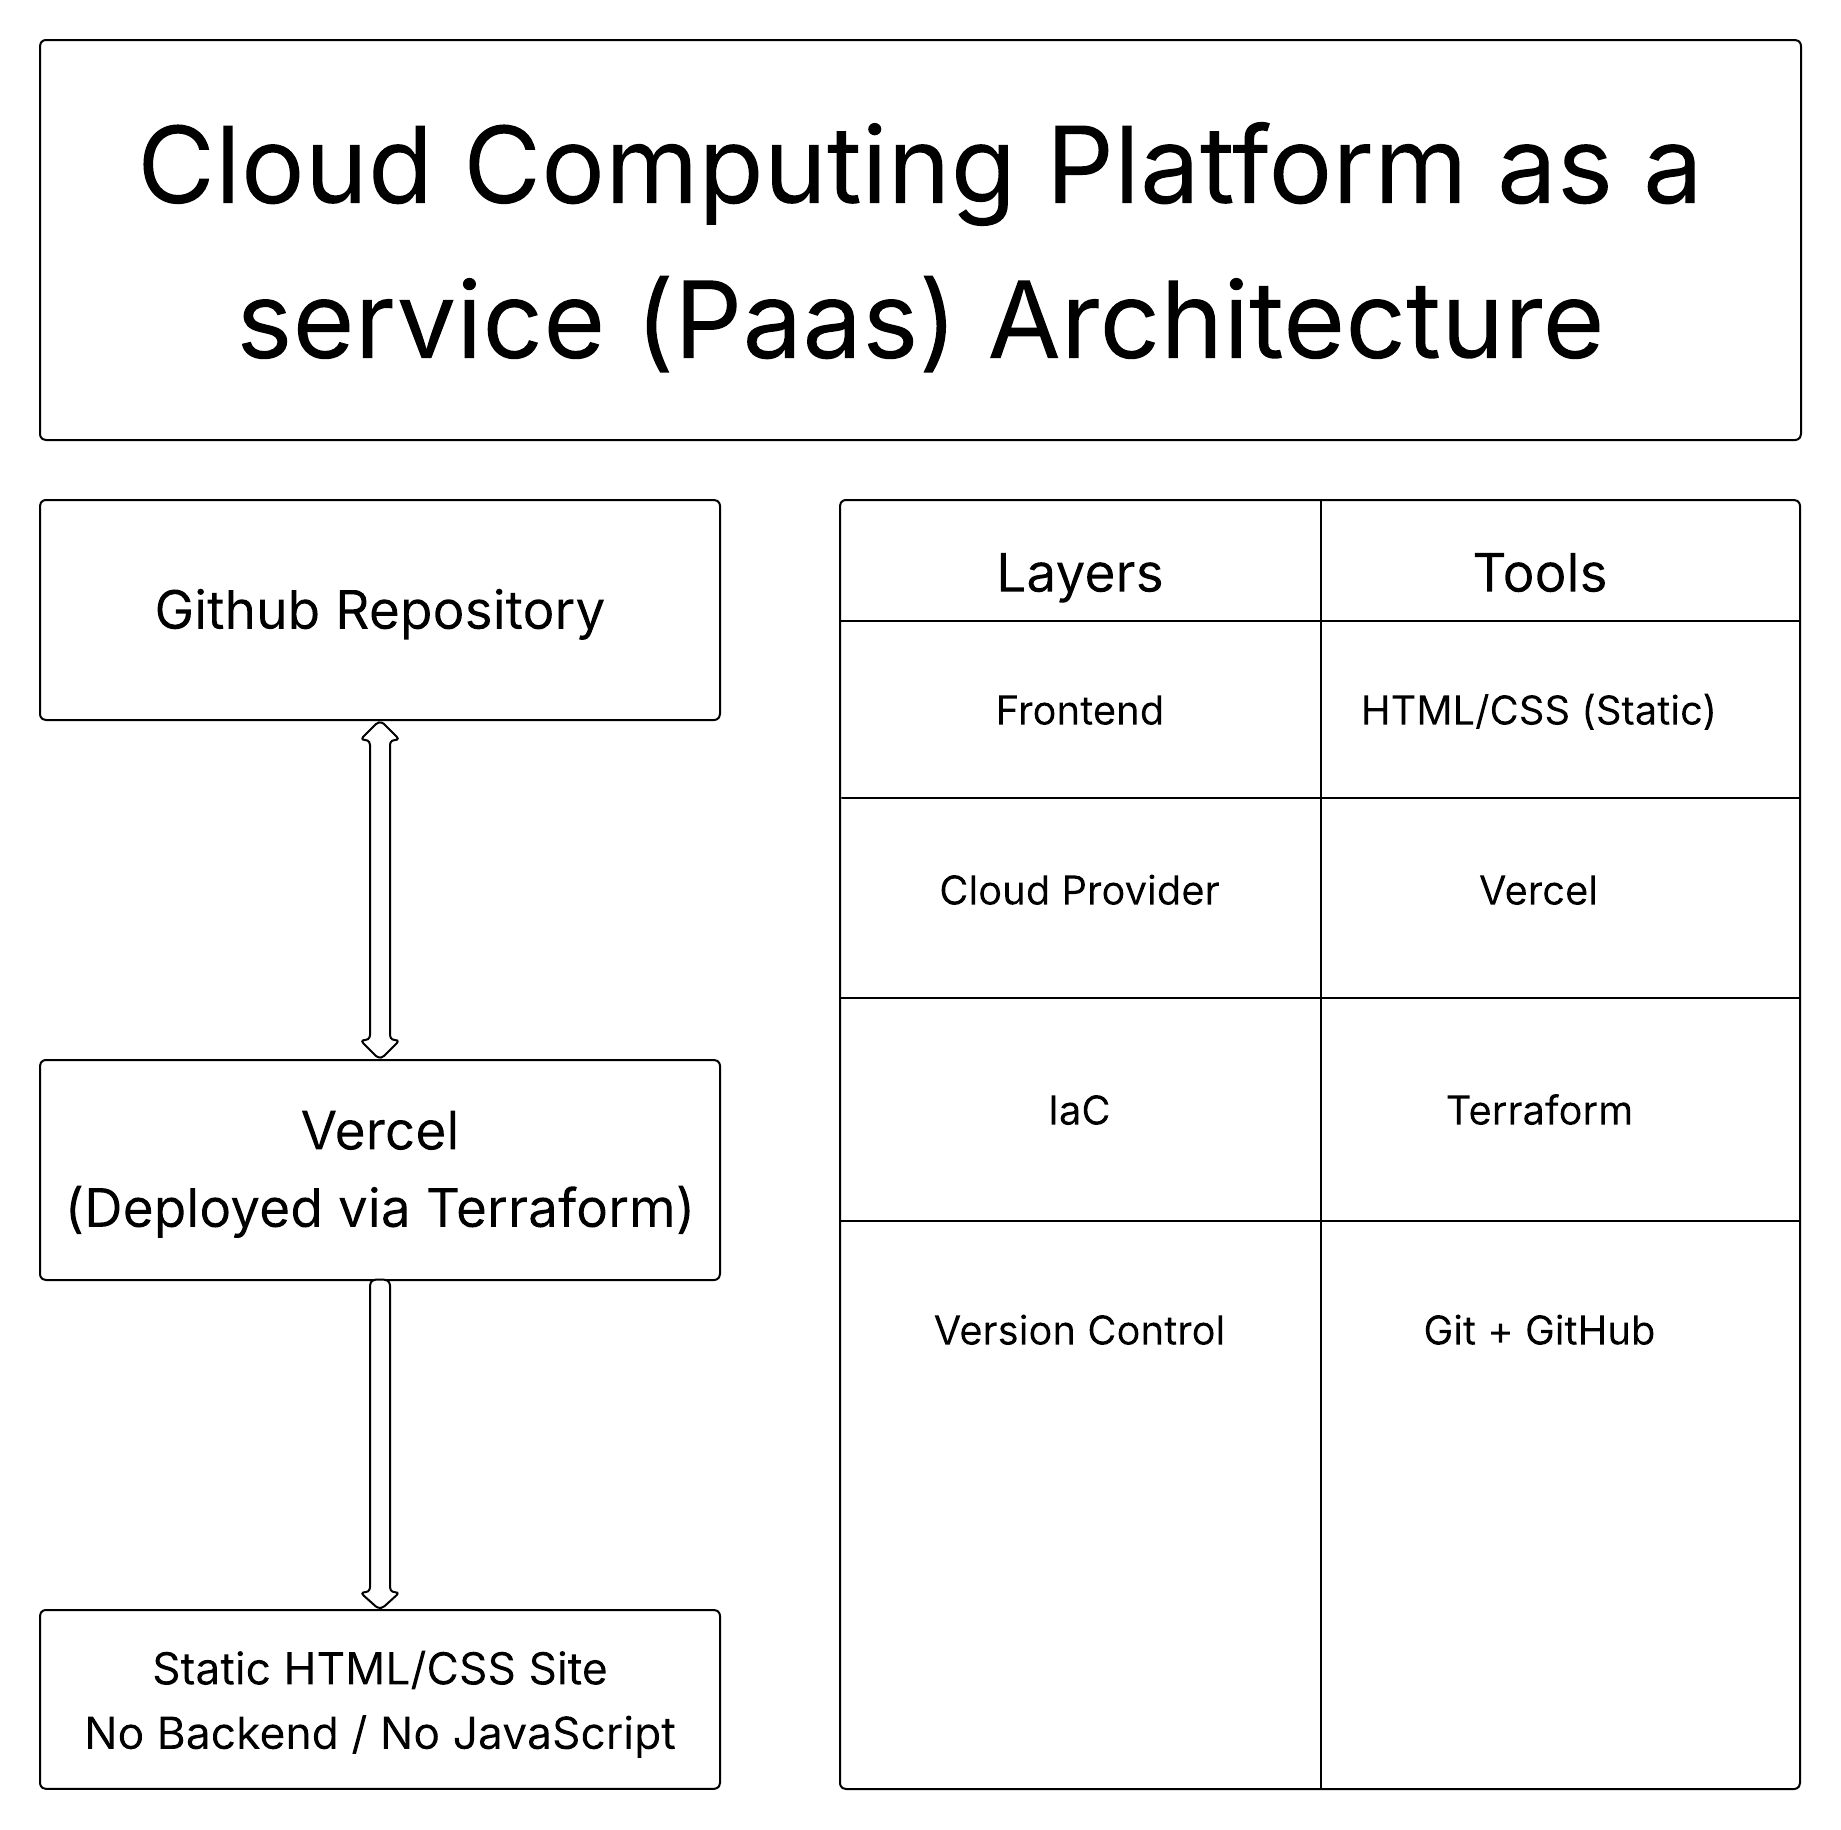
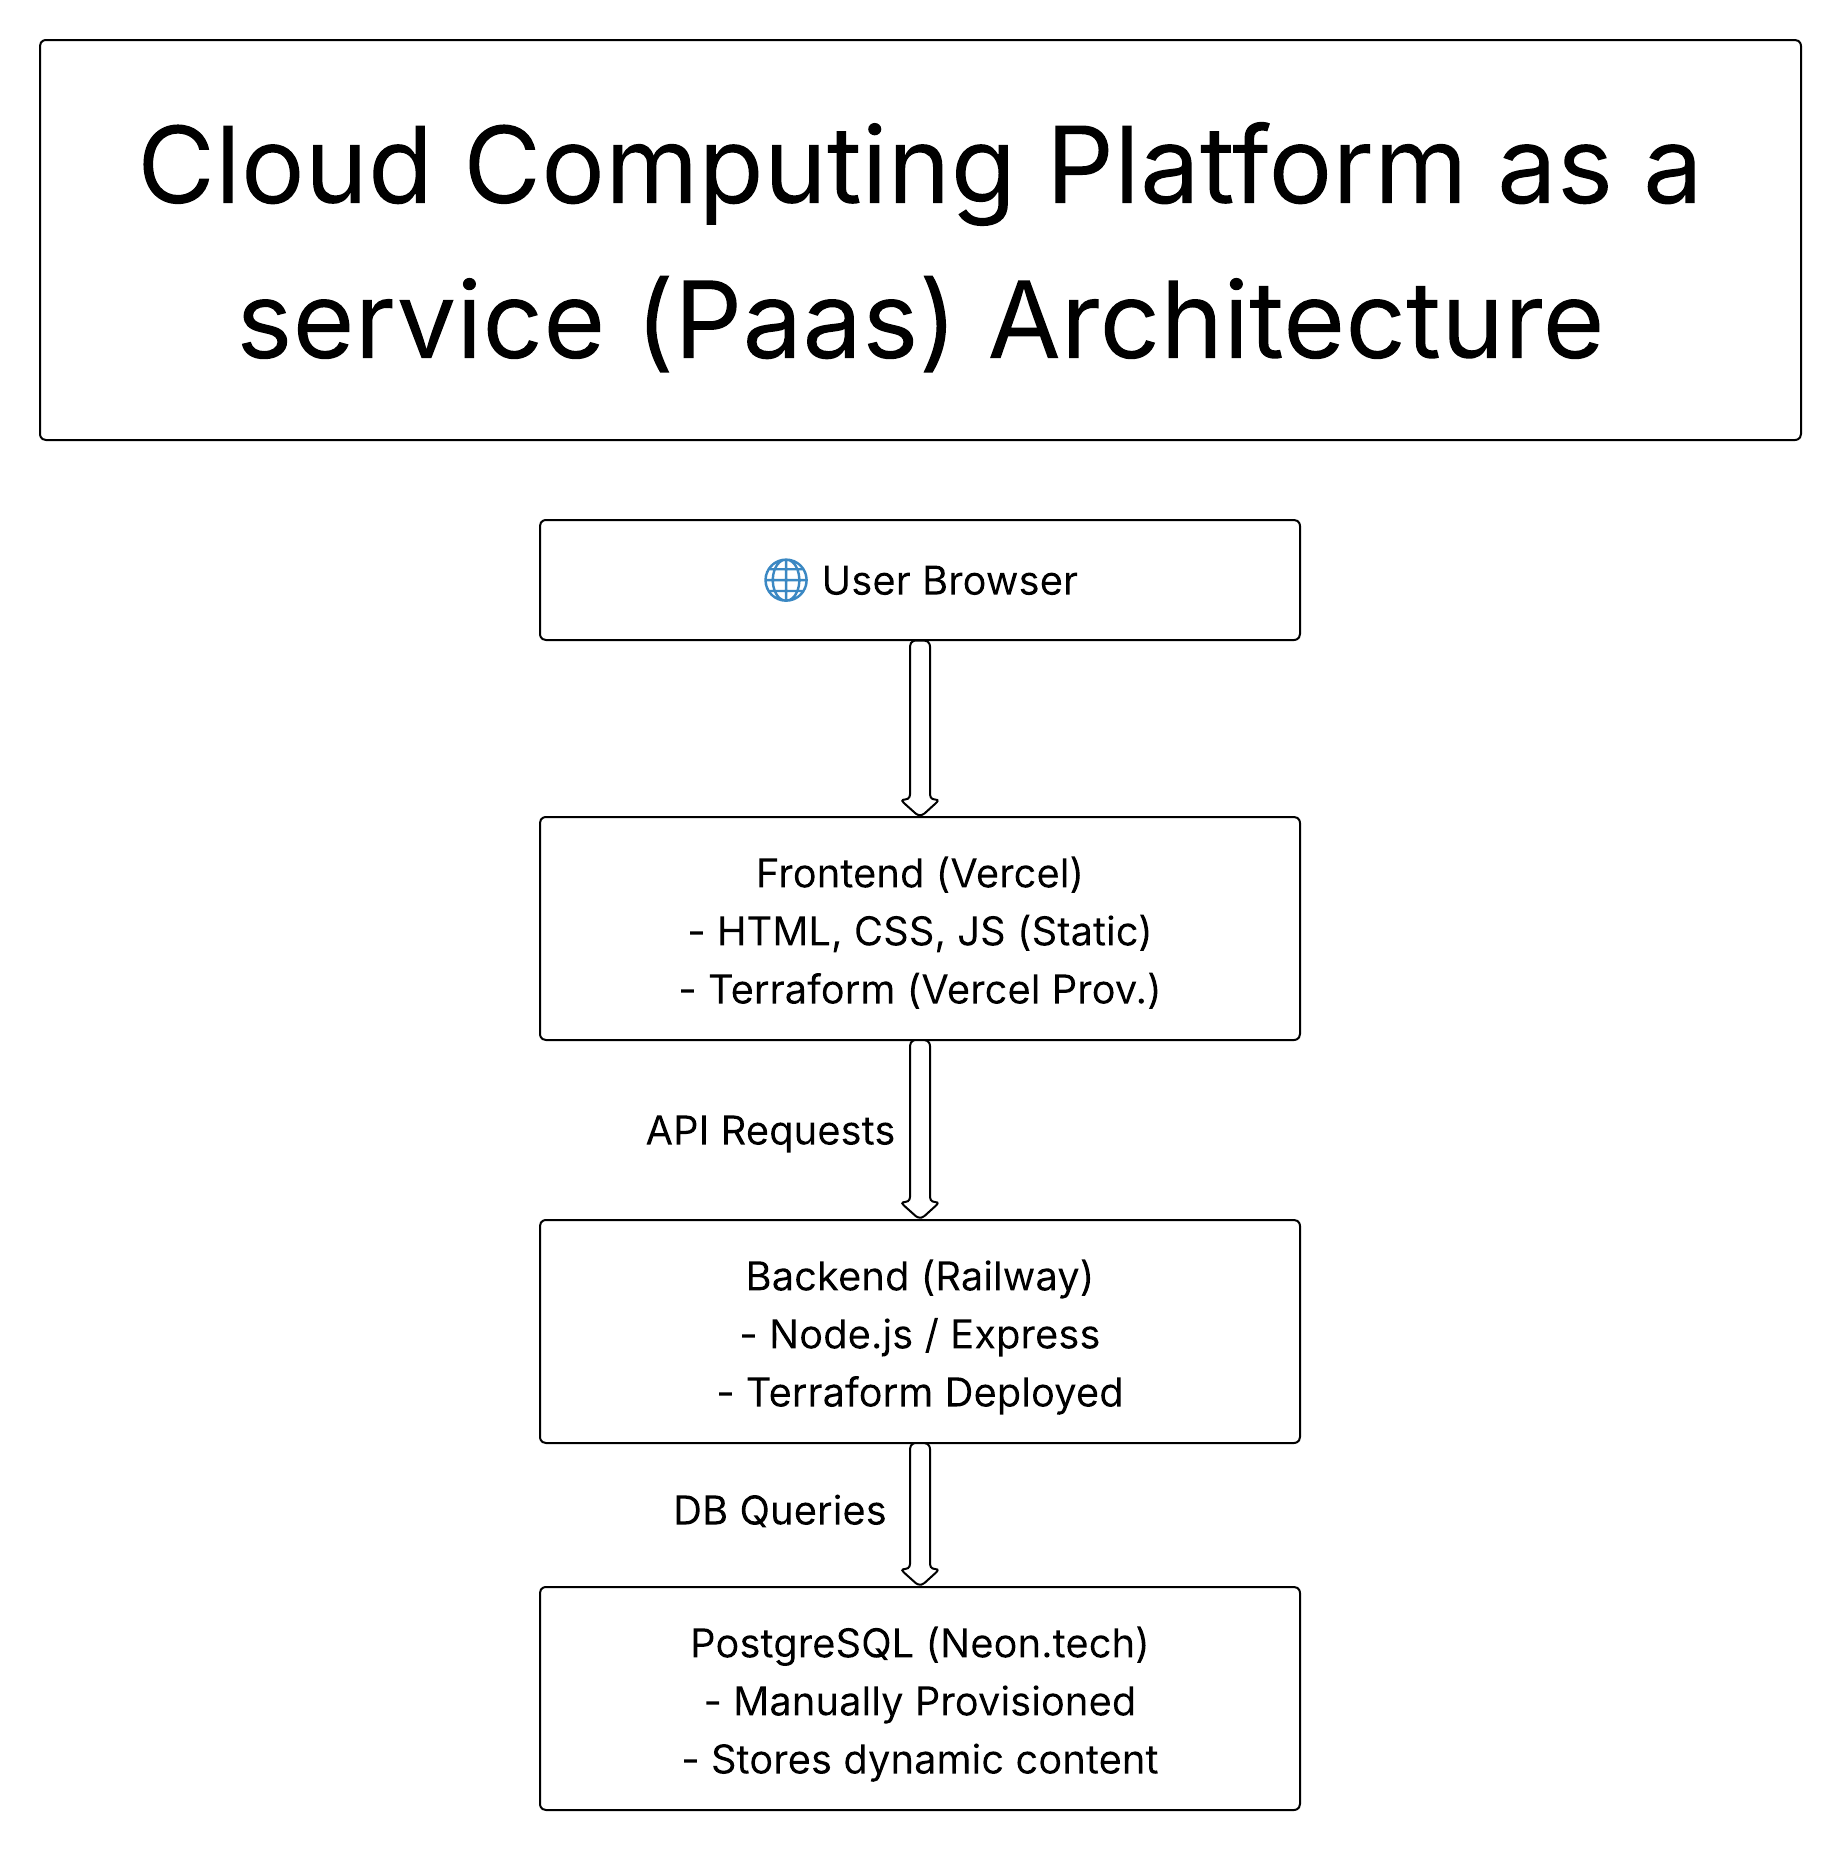
finish naaaa

diff --git a/readme.md b/readme.md
@@ -1,16 +1,40 @@
 # Portfolio Website - Cloud Paas Architecture
 
-A personal website deployed using Vercel with Terraform for Infrastructure as Code (IaC).
-It includes a static frontend (HTML, CSS, JS).
+It includes a static frontend (HTML, CSS, JS) deployed on Vercel, a backend service hosted on Railway, and a PostgreSQL database provisioned on Neon.tech. The infrastructure for both the frontend and backend is managed using Terraform, following the principles of Infrastructure as Code (IaC).
 
-## Key Concepts Applied
+## 🔑 Key Concepts Applied
 - Platform as a Service (PaaS)
-- Infrastructure as Code (IaC)
-- Static Web Hosting
+Utilized Vercel to host the frontend and Railway to deploy and manage the backend, eliminating the need to maintain infrastructure manually.
 
-## Architecture Overview
-Frontend:           HTML, CSS, JS (Static files)
-Infra Provisioning: Terraform (Vercel Provider)
+- Infrastructure as Code (IaC)
+Used Terraform to automate the provisioning of both frontend (Vercel) and backend (Railway) environments, ensuring consistent and repeatable deployments.
+
+- Static Web Hosting
+Deployed the frontend (HTML, CSS, JS) as static assets on Vercel, taking advantage of global CDN and optimized build pipelines.
+
+- Backend Deployment on PaaS
+Hosted a backend service (e.g., API server) on Railway, allowing for easy deployment, scaling, and monitoring of server-side logic.
+
+## 🏗 Architecture Overview
+Frontend
+- Built with: HTML, CSS, JavaScript
+- Hosted on: Vercel
+- Deployed using: Terraform (Vercel provider)
+
+Backend
+- Built with: (e.g., Node.js / Express) ← (replace with your actual backend stack)
+- Hosted on: Railway
+- Deployed using: Terraform (Railway provider)
+
+Database
+- Type: PostgreSQL
+- Hosted on: Neon.tech
+- Provisioned: Manually (not via Terraform)
+
+Infrastructure Provisioning
+- Managed with: Terraform
+- Providers used: Vercel, Railway
+- Approach: Infrastructure as Code (IaC)
 
 ## Live demo
 - http://portfolio-terraform-omega.vercel.app/
@@ -18,25 +42,37 @@ Infra Provisioning: Terraform (Vercel Provider)
 ## File Structure
 .
 ├── public/
-│   ├── index.html             # Main page
-│   ├── about.html             # About section
-│   ├── project.html           # The projects I made
-│   └── css/                   # Styles
+│   ├── image
+│   │   ├── download.jpg
+│   │   ├── p.e.jpg
+│   │   └── cloud Architecture.png
+│   ├── index.html            
+│   ├── about.html            
+│   ├── project.html                          
+│   └── styles.css             
 ├── terraform/
-│   ├── main.tf                # Terraform config
-│   ├── variables.tf           # Variables
-│   └── outputs.tf             # (Optional)
-├── vercel.json                # Routing & build configuration
-└── README.md                  # You're reading it!
+│   ├── main.tf                
+│   ├── variables.tf           
+│   ├── terraform.tfvars            
+│   └── outputs.tf 
+├── utils/
+│   └── db.js   
+├── package.json            
+├── vercel.json                
+└── README.md                  
 
-## Deployment
+## 🔧 Deployment Breakdown
+Frontend:
+Deployed on Vercel via Terraform.
+The static website (HTML/CSS/JS) is managed and deployed using Terraform scripts directly targeting Vercel's API.
 
-1. Initialize Terraform 
-        terraform init
-2. Check the plan
-        terraform plan
-3. Deploy Infrastructure
-        terraform apply
+Backend:
+Deployed on Railway using Terraform.
+The backend API service is hosted on Railway, and the deployment pipeline is defined via Terraform configuration for consistency.
+
+Database:
+Hosted on Neon.tech.
+PostgreSQL database setup was done manually and is not managed by Terraform (to be integrated in future improvements).
 
 Mariano, Wesley, R.
 Bachelor of Sciences in Computer Science at Sti College Pasay Edsa
